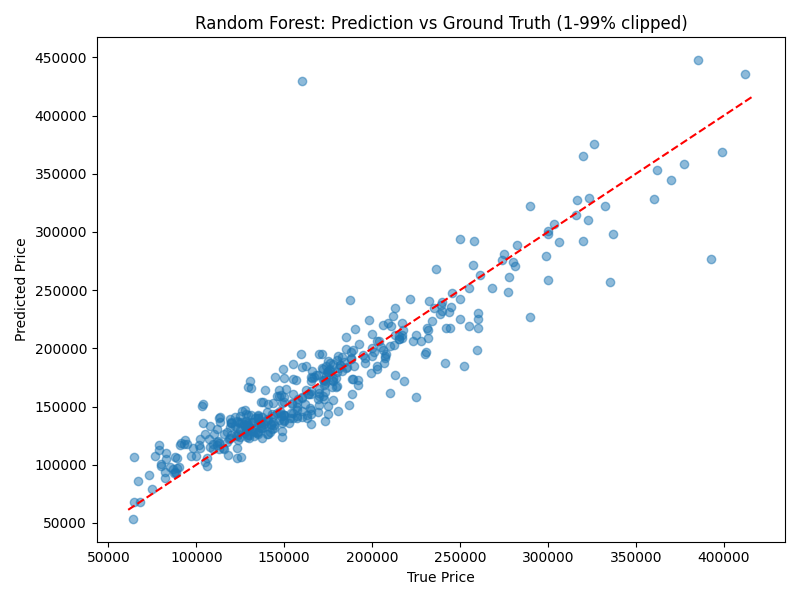
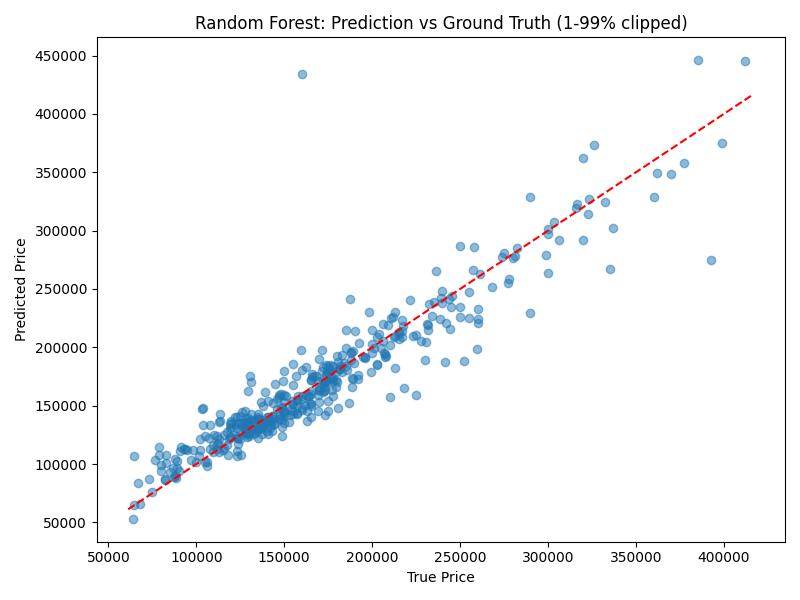
update requirements

diff --git a/random_forest.py b/random_forest.py
@@ -29,33 +29,13 @@ class RandomForest(Model):
     def evaluate(self, dataset):
         return self.model.predict(dataset.x)
 
-    def plot_feature_importance(self):
-        if self.feature_names is None:
-            print("No feature names provided.")
-            return
-
-        importances = self.model.feature_importances_
-        # Indices of top 5 features
-        indices = np.argsort(importances)[::-1][:5]
-        names = [self.feature_names[i] for i in indices]
-        top_importances = importances[indices]
-
-        plt.figure(figsize=(10,6))
-        plt.bar(range(len(top_importances)), top_importances)
-        plt.xticks(range(len(top_importances)), names, rotation=90)
-        plt.xlabel("Features")
-        plt.ylabel("Importance")
-        plt.title("Decision Tree Feature Importance (Top 5)")
-        plt.tight_layout()
-        plt.savefig(os.path.join(IMG_DIR, "feature_importance.png"))
-        plt.close()
 
 
 def main():
     train_dataset = AmesHousingDataset(mode="train",normalize=False,onehot=False)
     test_dataset = AmesHousingDataset(mode="test",normalize=False,onehot=False)
 
-    rf = RandomForest(n_estimators=200, max_depth=7, seed=123)
+    rf = RandomForest(n_estimators=400, max_depth=10, seed=123)
     rf.train(train_dataset)
     
     # Predictions

diff --git a/datasets.py b/datasets.py
@@ -91,7 +91,7 @@ class AmesHousingDataset(Dataset):
 
 
 def main():
-    dataset = AmesHousingDataset(mode='train')
+    dataset = AmesHousingDataset(mode='train',onehot=True)
     print("Number of features:", dataset.n_features)
     print("Feature names:", dataset.feature_names)
     print("Number of samples:", len(dataset.x))

diff --git a/dataset_checking.py b/dataset_checking.py
@@ -1,6 +1,6 @@
 import pandas as pd
 
-df = pd.read_csv('dataset/kc_final.csv')
+df = pd.read_csv('dataset/ames.csv')
 
 # Check for missing values
 missing = df.isnull().sum()
